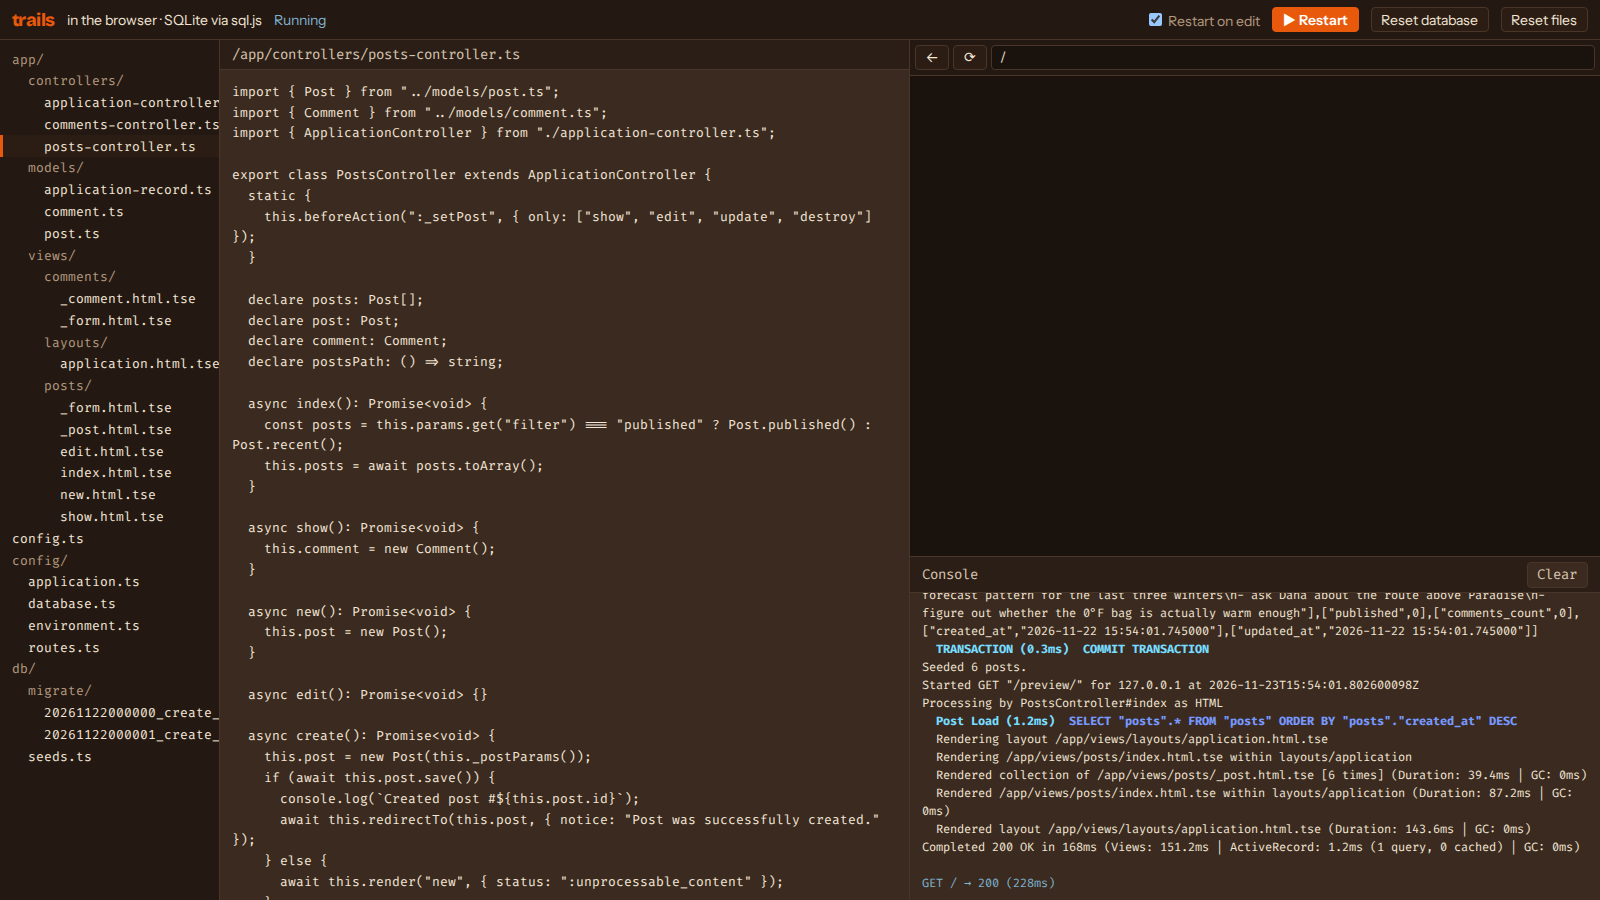
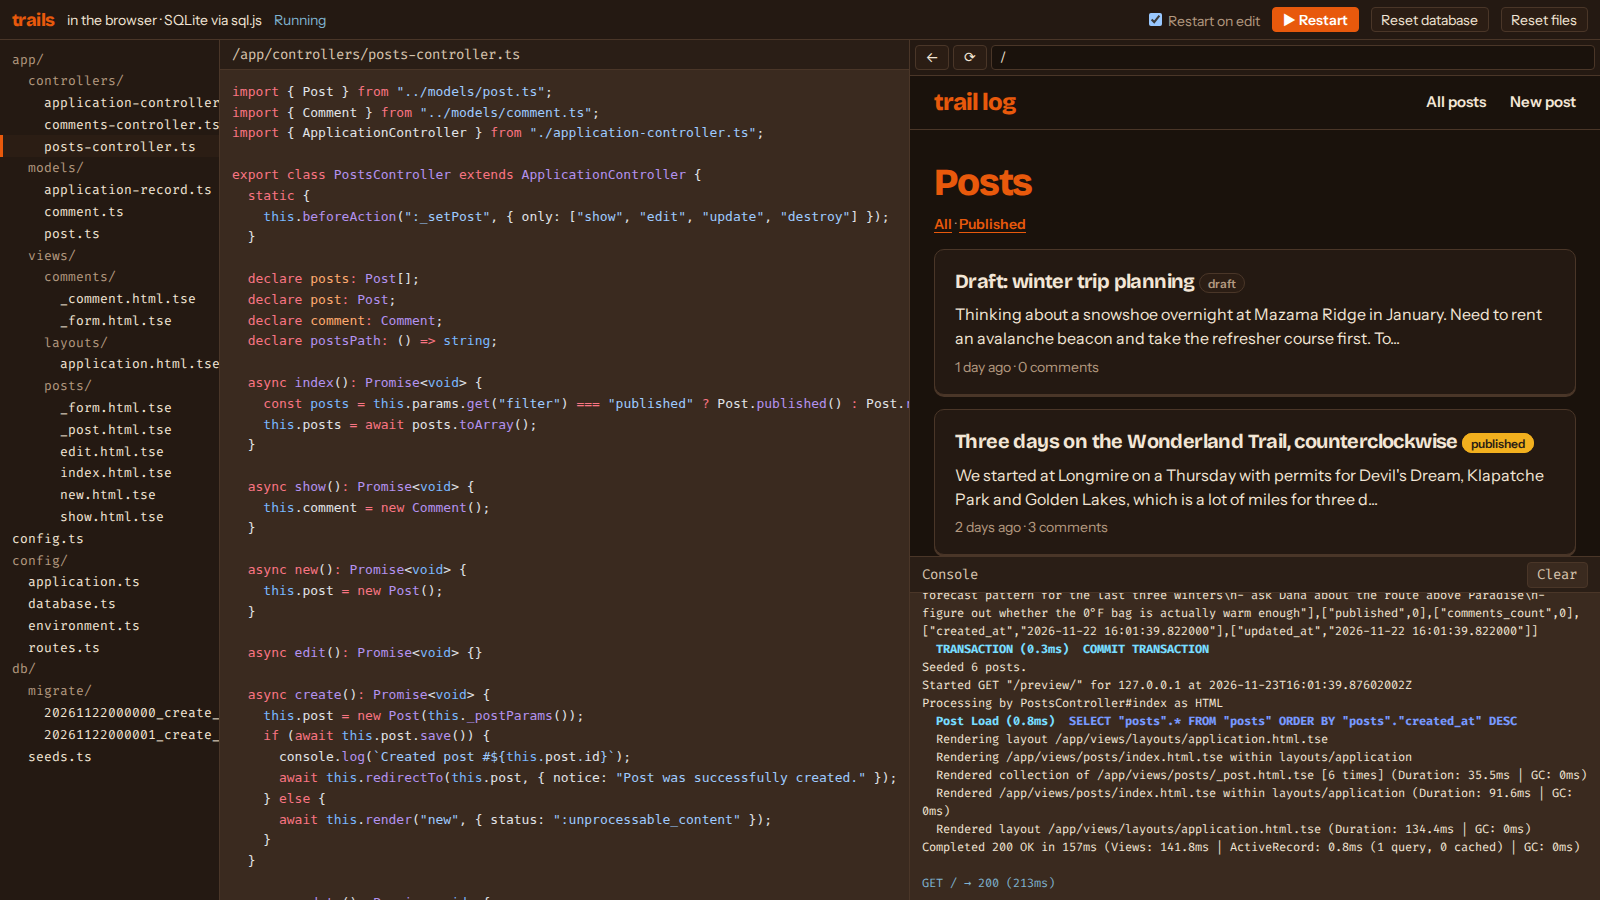
feat(examples): browser-sqlite editor highlights TypeScript and .tse with Shiki

diff --git a/examples/browser-sqlite/src/host/highlight.ts b/examples/browser-sqlite/src/host/highlight.ts
@@ -1,0 +1,51 @@
+import { createHighlighterCore, type HighlighterCore, type LanguageRegistration } from "shiki/core";
+import { createOnigurumaEngine } from "shiki/engine/oniguruma";
+
+const tse: LanguageRegistration = {
+  name: "tse",
+  scopeName: "text.html.tse",
+  embeddedLangs: ["html", "typescript"],
+  patterns: [{ include: "#tag" }, { include: "text.html.basic" }],
+  injections: {
+    "L:text.html.tse - source.ts.embedded.tse": { patterns: [{ include: "#tag" }] },
+  },
+  repository: {
+    tag: {
+      begin: "<%[=-]?",
+      end: "-?%>",
+      beginCaptures: { 0: { name: "punctuation.section.embedded.begin.tse" } },
+      endCaptures: { 0: { name: "punctuation.section.embedded.end.tse" } },
+      contentName: "source.ts.embedded.tse",
+      patterns: [{ include: "source.ts" }],
+    },
+  },
+};
+
+let highlighter: Promise<HighlighterCore> | undefined;
+
+function load(): Promise<HighlighterCore> {
+  return (highlighter ??= createHighlighterCore({
+    themes: [import("shiki/themes/github-dark.mjs")],
+    langs: [
+      import("shiki/langs/typescript.mjs"),
+      import("shiki/langs/html.mjs"),
+      import("shiki/langs/json.mjs"),
+      tse,
+    ],
+    engine: createOnigurumaEngine(import("shiki/wasm")),
+  }));
+}
+
+function language(path: string): string {
+  if (path.endsWith(".tse")) return "tse";
+  if (path.endsWith(".ts")) return "typescript";
+  if (path.endsWith(".json")) return "json";
+  if (path.endsWith(".html")) return "html";
+  return "text";
+}
+
+/** The source as highlighted HTML for the editor's backdrop, in the website's `github-dark` theme. */
+export async function highlight(source: string, path: string): Promise<string> {
+  const shiki = await load();
+  return shiki.codeToHtml(source, { lang: language(path), theme: "github-dark" });
+}

diff --git a/examples/browser-sqlite/src/host/main.ts b/examples/browser-sqlite/src/host/main.ts
@@ -2,6 +2,7 @@ import "@fontsource-variable/bricolage-grotesque";
 import "@fontsource-variable/instrument-sans";
 import "@fontsource-variable/fira-code";
 import { latin1 } from "../runtime/latin1.ts";
+import { highlight } from "./highlight.ts";
 
 const TEMPLATE = import.meta.glob<string>("../../template/**/*", {
   query: "?raw",
@@ -35,6 +36,26 @@ let runtime: HTMLIFrameElement | null = null;
 const $ = <T extends HTMLElement>(id: string) => document.getElementById(id) as T;
 const tree = $<HTMLElement>("tree");
 const editor = $<HTMLTextAreaElement>("editor");
+const backdrop = $("highlight");
+
+let painted = 0;
+function paint(): void {
+  const run = ++painted;
+  const source = editor.value;
+  highlight(source.endsWith("\n") ? `${source} ` : source, current).then(
+    (html) => {
+      if (run !== painted) return;
+      backdrop.innerHTML = html;
+      syncScroll();
+    },
+    (e: unknown) => console.error("highlighting failed:", e),
+  );
+}
+function syncScroll(): void {
+  backdrop.scrollTop = editor.scrollTop;
+  backdrop.scrollLeft = editor.scrollLeft;
+}
+editor.addEventListener("scroll", syncScroll);
 const preview = $<HTMLIFrameElement>("preview");
 const consoleEl = $<HTMLPreElement>("console");
 const urlInput = $<HTMLInputElement>("url");
@@ -115,10 +136,12 @@ function open(path: string): void {
   editor.value = files[path] ?? "";
   $("editor-title").textContent = path;
   renderTree();
+  paint();
 }
 
 let restartTimer: ReturnType<typeof setTimeout> | undefined;
 editor.addEventListener("input", () => {
+  paint();
   files[current] = editor.value;
   localStorage.setItem(FILES_KEY, JSON.stringify(files));
   clearTimeout(restartTimer);

diff --git a/examples/browser-sqlite/src/host/style.css b/examples/browser-sqlite/src/host/style.css
@@ -149,17 +149,48 @@ main {
   background: var(--raised);
   border-bottom: 1px solid var(--border);
 }
-#editor {
+#code {
+  position: relative;
   flex: 1;
-  border: 0;
-  resize: none;
+  min-height: 0;
+  background: var(--code-bg);
+}
+#editor,
+#highlight,
+#highlight pre {
+  margin: 0;
   padding: 0.75rem;
   font: 13px/1.6 var(--mono);
-  color: var(--code-text);
-  background: var(--code-bg);
-  caret-color: var(--mango);
   tab-size: 2;
+  white-space: pre;
+  overflow-wrap: normal;
+}
+#editor,
+#highlight {
+  position: absolute;
+  inset: 0;
+  overflow: auto;
+}
+#highlight {
+  padding: 0;
+  pointer-events: none;
+  color: var(--code-text);
+  scrollbar-width: none;
+}
+#highlight pre {
+  background: transparent !important;
+  min-width: max-content;
+}
+#editor {
+  border: 0;
+  resize: none;
+  color: transparent;
+  background: transparent;
+  caret-color: var(--mango);
   outline: none;
+}
+#editor::selection {
+  background: rgb(242 176 30 / 0.3);
 }
 #right {
   display: grid;

diff --git a/examples/browser-sqlite/index.html b/examples/browser-sqlite/index.html
@@ -21,7 +21,10 @@
       <nav id="tree"></nav>
       <section id="editor-pane">
         <div id="editor-title"></div>
-        <textarea id="editor" spellcheck="false"></textarea>
+        <div id="code">
+          <div id="highlight" aria-hidden="true"></div>
+          <textarea id="editor" spellcheck="false"></textarea>
+        </div>
       </section>
       <section id="right">
         <div id="browser">

diff --git a/examples/browser-sqlite/README.md b/examples/browser-sqlite/README.md
@@ -50,15 +50,15 @@ The editor in dark mode:
 
 ## How it fits together
 
-| Piece                                                  | What it does                                                                                                                                                                                                                                           |
-| ------------------------------------------------------ | ------------------------------------------------------------------------------------------------------------------------------------------------------------------------------------------------------------------------------------------------------ |
-| Editor (`index.html`, `src/host/`)                     | Holds the files and the database bytes (both kept in `localStorage`), and recreates the runtime iframe on every restart, so each run evaluates a fresh module graph                                                                                    |
-| Runtime iframe (`runtime.html`, `src/runtime/main.ts`) | Loads the framework packages, registers the browser host adapters, boots the app, runs pending migrations, and answers requests                                                                                                                        |
-| Virtual filesystem (`src/runtime/vfs.ts`)              | An in-memory ruby-compat `FsAdapter`. Zeitwerk, the template resolver and the migrator read the app's files from it; the app's `log/development.log` is written to it and tailed into the console                                                      |
-| Service worker (`public/sw.js`)                        | Sends the preview's `/preview/*` requests to the runtime, which hands them to the Rack app with `SCRIPT_NAME=/preview`, and serves the app's modules: `pathToFileURL("/app/models/post.ts")` is a `/rt/<run>/vfs/...` URL the worker answers           |
-| Module loading (`src/runtime/modules.ts`)              | Transpiles an app file with TypeScript's `transpileModule`, and points its `@blazetrails/*` imports at shims that `export *` from the URL the dev server serves each package at, so app code shares the framework's module instances and live bindings |
-| Templates (`src/runtime/template-compiler.ts`)         | A trails app precompiles `.tse` with `trails-tsc-views build`; here the source is in the editor, so `setTemplateCompiler` builds the same stand-in module from it at first render                                                                      |
-| SQLite (`src/runtime/expo-sqlite-sqljs.ts`)            | The app's `database.ts` says `adapter: "expo-sqlite"`; the runtime answers expo-sqlite's async API with sql.js, so the stock `SQLite3Adapter` runs unchanged                                                                                           |
+| Piece                                                  | What it does                                                                                                                                                                                                                                                                                                                              |
+| ------------------------------------------------------ | ----------------------------------------------------------------------------------------------------------------------------------------------------------------------------------------------------------------------------------------------------------------------------------------------------------------------------------------- |
+| Editor (`index.html`, `src/host/`)                     | Highlights the source with Shiki (the website's `github-dark` theme, plus a small `.tse` grammar: HTML with TypeScript inside `<% %>`) behind a transparent textarea. Holds the files and the database bytes (both kept in `localStorage`), and recreates the runtime iframe on every restart, so each run evaluates a fresh module graph |
+| Runtime iframe (`runtime.html`, `src/runtime/main.ts`) | Loads the framework packages, registers the browser host adapters, boots the app, runs pending migrations, and answers requests                                                                                                                                                                                                           |
+| Virtual filesystem (`src/runtime/vfs.ts`)              | An in-memory ruby-compat `FsAdapter`. Zeitwerk, the template resolver and the migrator read the app's files from it; the app's `log/development.log` is written to it and tailed into the console                                                                                                                                         |
+| Service worker (`public/sw.js`)                        | Sends the preview's `/preview/*` requests to the runtime, which hands them to the Rack app with `SCRIPT_NAME=/preview`, and serves the app's modules: `pathToFileURL("/app/models/post.ts")` is a `/rt/<run>/vfs/...` URL the worker answers                                                                                              |
+| Module loading (`src/runtime/modules.ts`)              | Transpiles an app file with TypeScript's `transpileModule`, and points its `@blazetrails/*` imports at shims that `export *` from the URL the dev server serves each package at, so app code shares the framework's module instances and live bindings                                                                                    |
+| Templates (`src/runtime/template-compiler.ts`)         | A trails app precompiles `.tse` with `trails-tsc-views build`; here the source is in the editor, so `setTemplateCompiler` builds the same stand-in module from it at first render                                                                                                                                                         |
+| SQLite (`src/runtime/expo-sqlite-sqljs.ts`)            | The app's `database.ts` says `adapter: "expo-sqlite"`; the runtime answers expo-sqlite's async API with sql.js, so the stock `SQLite3Adapter` runs unchanged                                                                                                                                                                              |
 
 ## What a browser needs that Node does not
 
